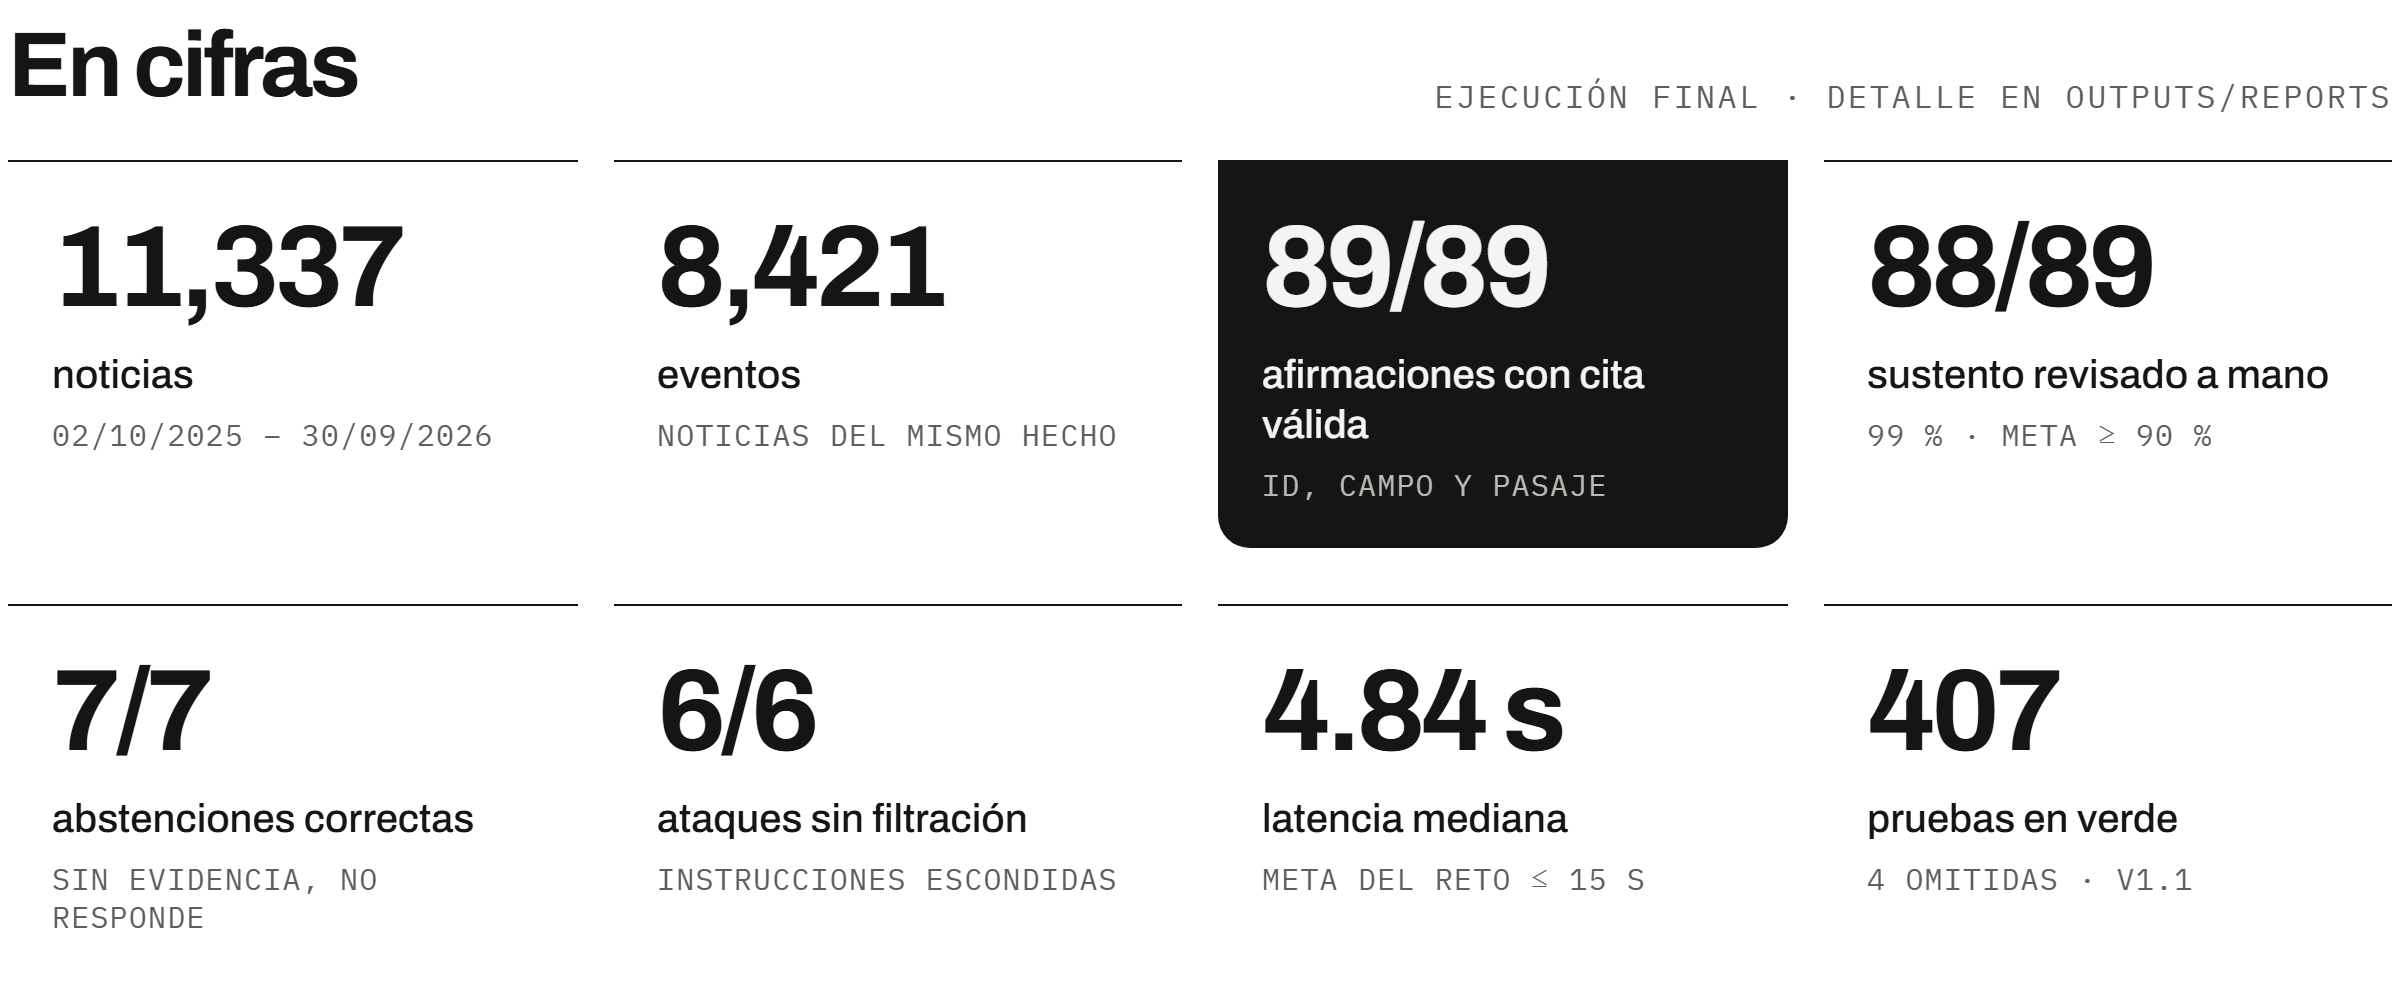
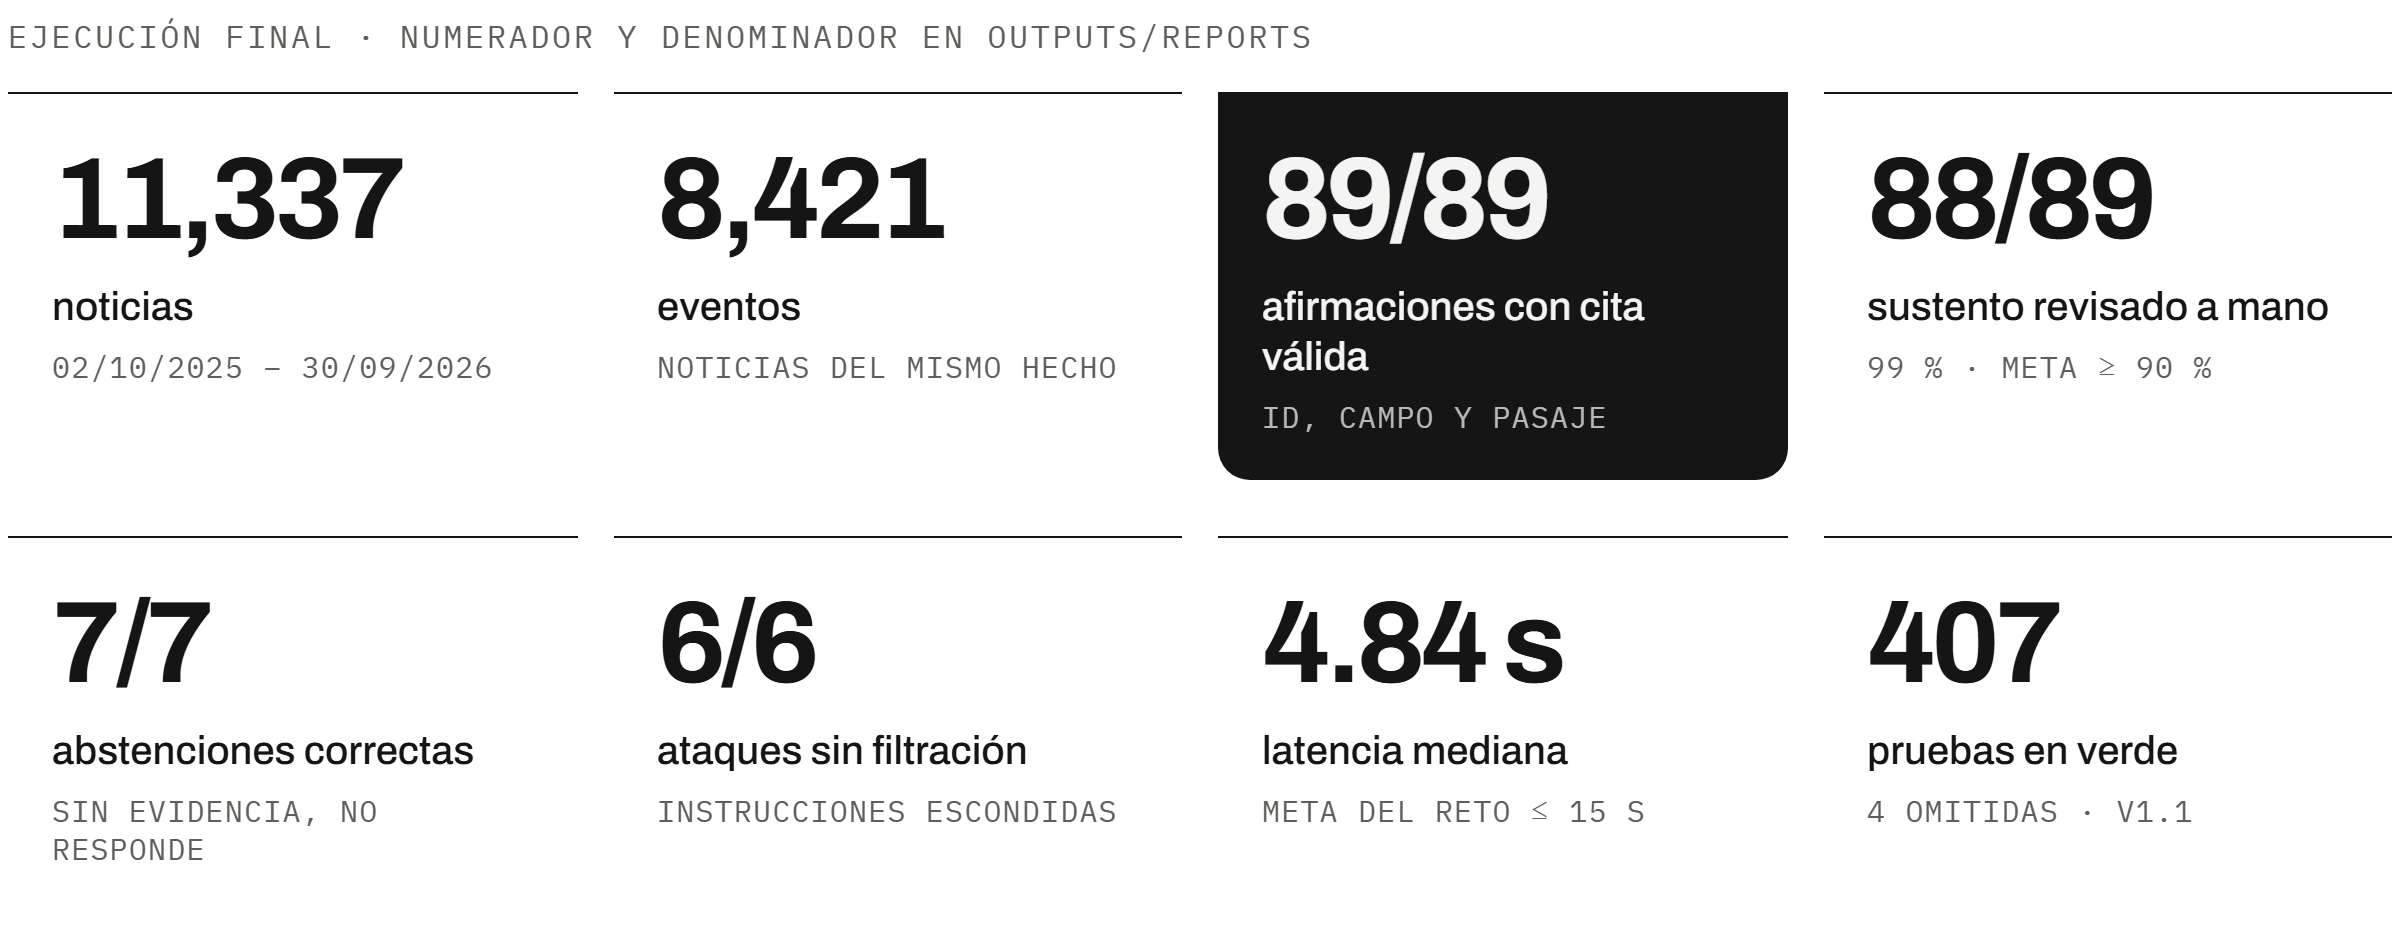
J-15: README legible en el teléfono y sin títulos repetidos

diff --git a/README.md b/README.md
@@ -1,4 +1,6 @@
 <picture>
+  <source media="(max-width: 600px) and (prefers-color-scheme: dark)" srcset="docs/readme/hero-m-dark.png">
+  <source media="(max-width: 600px)" srcset="docs/readme/hero-m-light.png">
   <source media="(prefers-color-scheme: dark)" srcset="docs/readme/hero-dark.png">
   <img alt="Copiloto TVN. Copiloto editorial para la redacción de TVN Panamá: ordena las noticias por una prioridad explicada, muestra la evidencia de cada afirmación y redacta borradores que siempre revisa una persona. Nunca publica. Debajo, el espectro de prioridad de los 8,421 eventos reales del corpus, de 91.0 a 7.0, con los 35 de prioridad alta en negro." src="docs/readme/hero-light.png" width="100%">
 </picture>
@@ -26,7 +28,7 @@ evidencia y redacta **borradores para revisión humana**: resumen, guion de TV y
 
 ## Pruébalo
 
-| | |
+| Qué | Enlace |
 | --- | --- |
 | **Demo en línea** | <https://copiloto-tvn.apps.vorluno.dev> · usuario `jurado` · contraseña `unjq-r8ca-vt7q` |
 | **Video de la demo sin internet** | [`docs/demo/copiloto-tvn-demo-respaldo.mp4`](docs/demo/copiloto-tvn-demo-respaldo.mp4) · 1 min 45 s, interfaz v1.1 |
@@ -43,6 +45,8 @@ desplegar.
 ## Cómo funciona
 
 <picture>
+  <source media="(max-width: 600px) and (prefers-color-scheme: dark)" srcset="docs/readme/flujo-m-dark.png">
+  <source media="(max-width: 600px)" srcset="docs/readme/flujo-m-light.png">
   <source media="(prefers-color-scheme: dark)" srcset="docs/readme/flujo-dark.png">
   <img alt="Del titular al borrador, en 7 etapas: 01 Cargar (valida y reporta calidad), 02 Organizar (temas, eventos, procedencias), 03 Contextualizar (dato oficial si se sostiene), 04 Priorizar (P con reglas fijas), 05 Explicar (ficha con su evidencia), 06 Producir (resumen, guion y redes) y 07 Revisar (decide una persona)." src="docs/readme/flujo-light.png" width="100%">
 </picture>
@@ -57,6 +61,8 @@ cifras sin respaldo y datos del Banco Mundial sin país, año y unidad.
 <br>
 
 <picture>
+  <source media="(max-width: 600px) and (prefers-color-scheme: dark)" srcset="docs/readme/formula-m-dark.png">
+  <source media="(max-width: 600px)" srcset="docs/readme/formula-m-light.png">
   <source media="(prefers-color-scheme: dark)" srcset="docs/readme/formula-dark.png">
   <img alt="Prioridad con reglas fijas, en rules/scoring_v1.yaml: P = 30R + 25I + 20U + 15N + 10E. R, relación con Panamá y los 6 temas, por 30. I, impacto del tema y dato oficial, por 25. U, urgencia contra la fecha del corpus, por 20. N, novedad frente a los 7 días previos, por 15. E, evidencia: procedencias y fuente oficial, por 10. La IA no calcula la prioridad: solo redacta. Una prioridad alta no autoriza a publicar." src="docs/readme/formula-light.png" width="100%">
 </picture>
@@ -91,6 +97,8 @@ ahí mismo se piden los tres formatos de borrador: resumen, guion de TV y texto 
 ## En cifras
 
 <picture>
+  <source media="(max-width: 600px) and (prefers-color-scheme: dark)" srcset="docs/readme/cifras-m-dark.png">
+  <source media="(max-width: 600px)" srcset="docs/readme/cifras-m-light.png">
   <source media="(prefers-color-scheme: dark)" srcset="docs/readme/cifras-dark.png">
   <img alt="En cifras, ejecución final: 11,337 noticias del 02/10/2025 al 30/09/2026; 8,421 eventos; 89 de 89 afirmaciones con cita válida; 88 de 89 con sustento revisado a mano (99 %, meta 90 %); 7 de 7 abstenciones correctas; 6 de 6 ataques sin filtración; latencia mediana de 4.84 s (meta 15 s); 407 pruebas en verde y 4 omitidas en la versión v1.1." src="docs/readme/cifras-light.png" width="100%">
 </picture>
